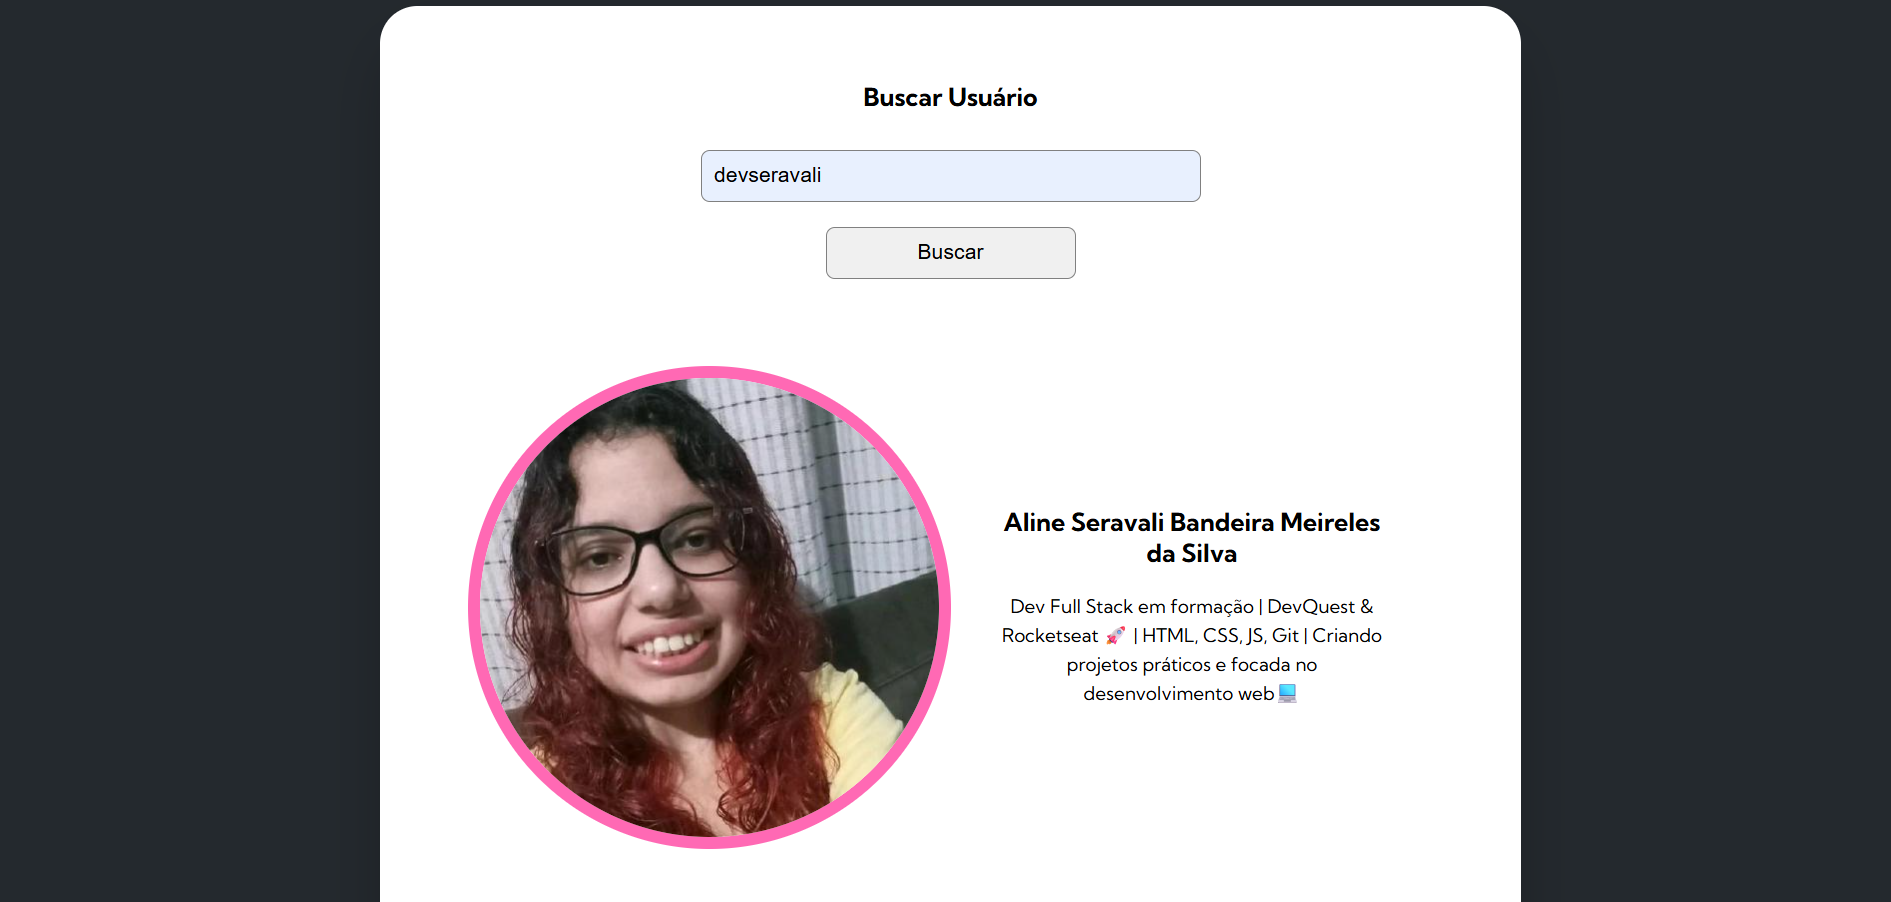
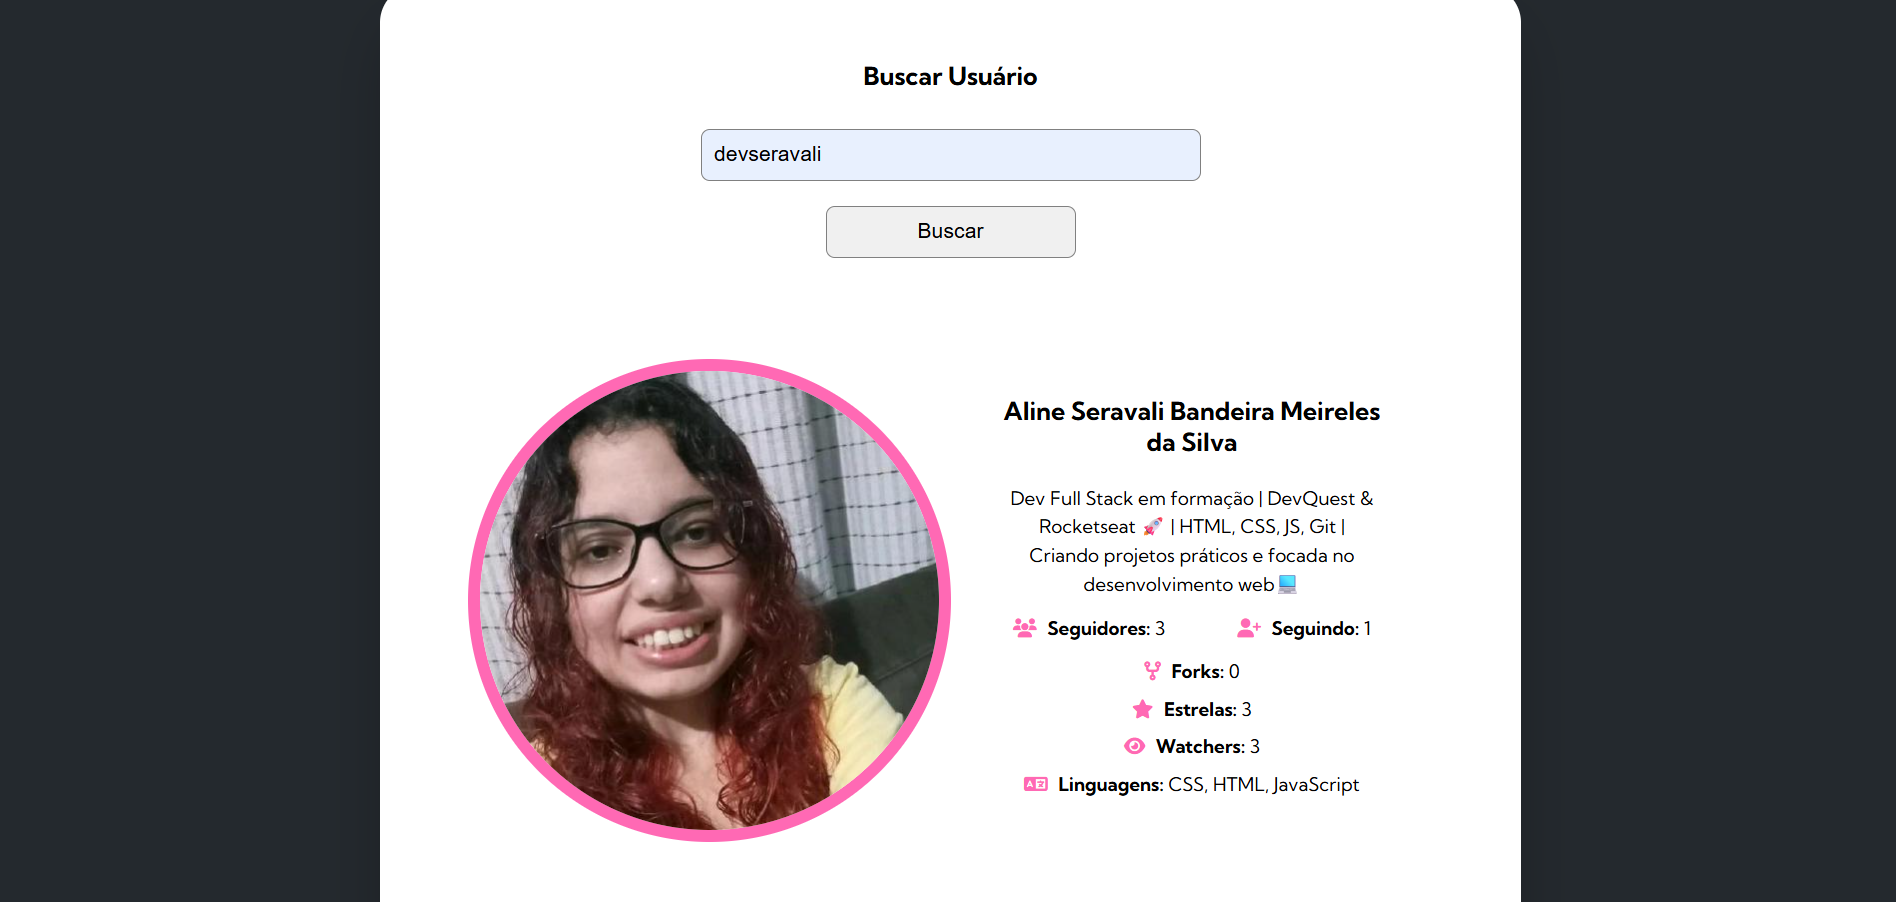
Atualização do readme

diff --git a/readme.md b/readme.md
@@ -12,6 +12,7 @@ Construída com HTML, CSS e JavaScript, a integração com a API pública do Git
 - CSS3
 - JavaScript (ES6)
 - Fetch API
+- Font Awesome (para ícones)
 
 ## Link do projeto
 O projeto está disponível para teste online. Acesse a demo [clicando aqui](https://devseravali.github.io/projeto-fetch-git/)
@@ -24,28 +25,57 @@ O projeto está disponível para teste online. Acesse a demo [clicando aqui](htt
 **Resultado de Busca**
 <img src="src/images/resultado-de-busca.png">
 
+**Lista de Commits**
+<img src="src/images/commits.png">
+
 **Lista de Repositórios**
 <img src="src/images/lista-de-repositorios.png">
 
 ## 📂 Estrutura do projeto
 ```
-projeto-fetch-git/
-├── index.html
+Projeto-fetch-git/
+── index.html
+├── readme.md
 ├── src/
 │ ├── css/
 │ │ ├── reset.css
-│ │ ├── responsivo.css
-│ │ └── style.css
-│ ├── js/
-│ │ ├── index.js
-│ │ ├── variables.js
-│ │ ├── objects/
-│ │ │ ├── screen.js
-│ │ │ └── user.js
-│ │ └── services/
-│ │ ├── repositories.js
+│ │ ├── style.css
+│ │ └── responsivo.css
+│ ├── images/
+│ │ ├── tela-inicial.png
+│ │ ├── resultado-de-busca.png
+│ │ ├── lista-de-repositorios.png
+│ │ └── commits.png
+│ └── js/
+│ ├── index.js
+│ ├── variables.js
+│ ├── objects/
+│ │ ├── screen.js
 │ │ └── user.js
+│ └── services/
+│ ├── user.js
+│ └── repositories.js
 ```
+
+## 🔹Melhorias Implementadas (Desafio Avançado da Quest)
+- 📊 Últimos eventos do usuário:
+Listagem de até 10 últimos eventos do usuário.
+Exibe apenas os eventos:
+PushEvent → mostra nome do repositório e mensagem de commit.
+
+
+- 📂 Repositórios
+
+Agora além do nome e link do repositório, também são exibidas:
+
+⭐ Quantidade de estrelas
+
+🍴 Quantidade de forks
+
+👀 Quantidade de watchers
+
+💻 Linguagem principal do repositório
+
 _ _ _ 
 
 ### 🙏 Agradecimentos
